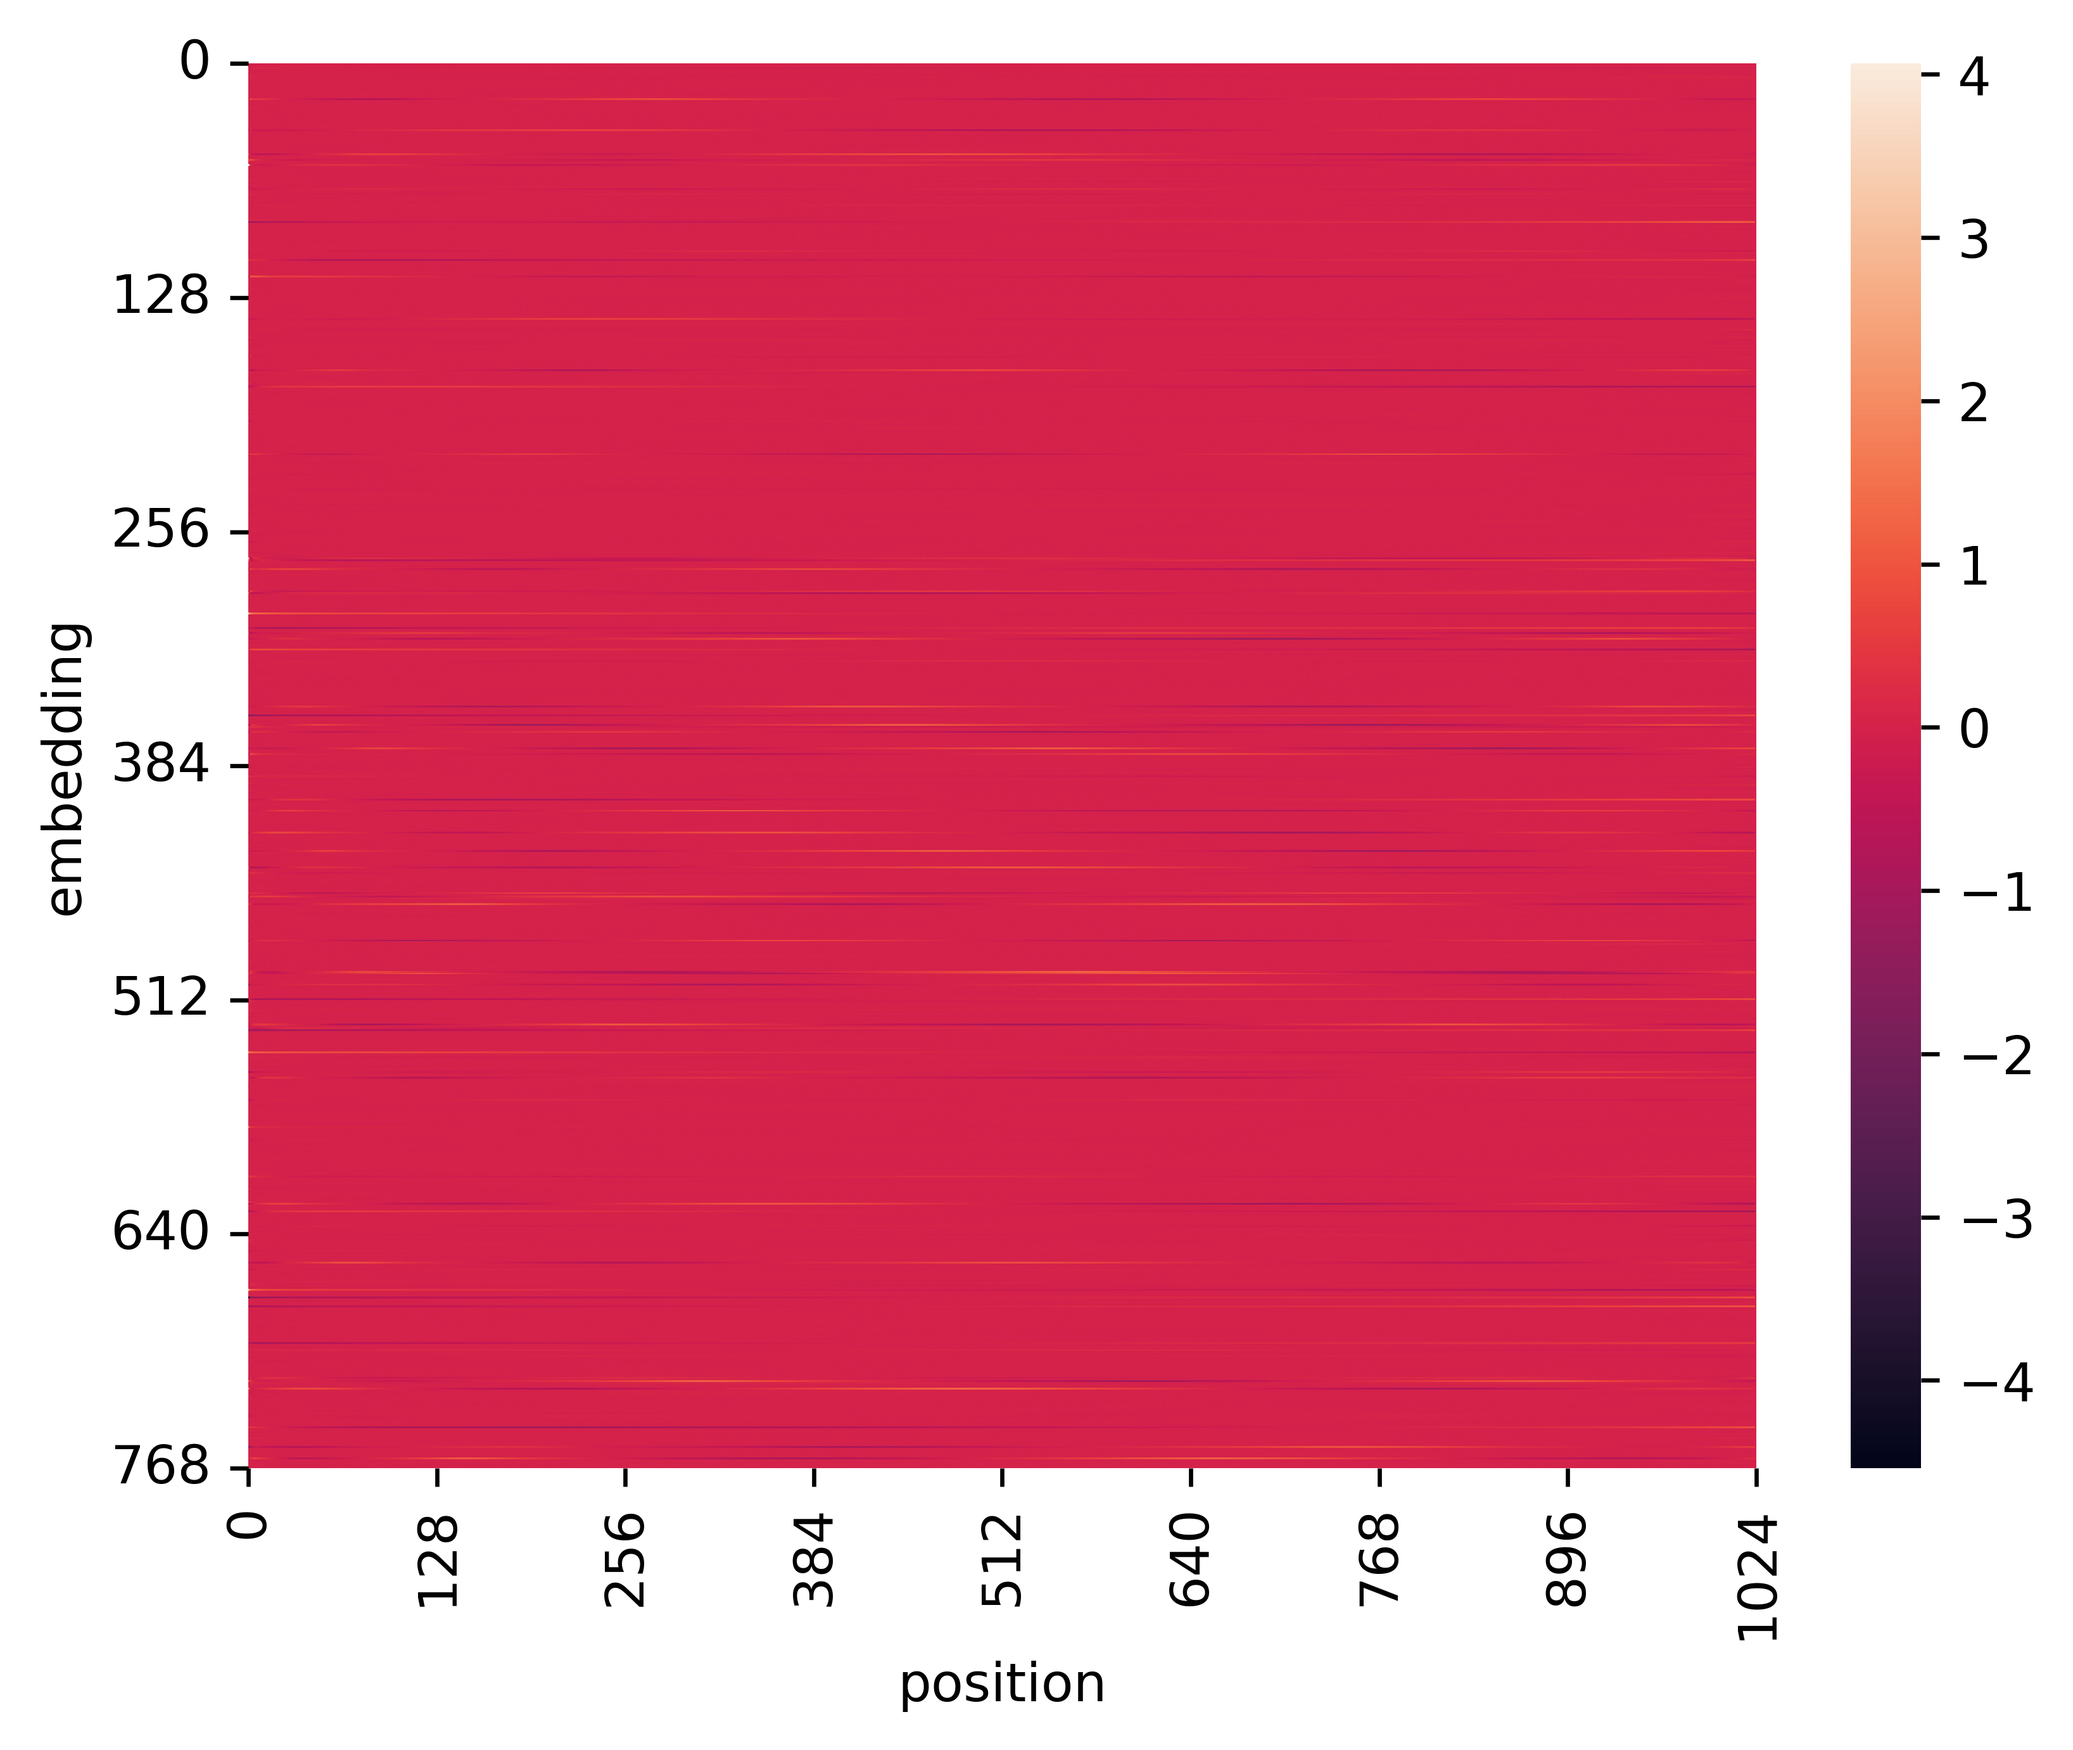
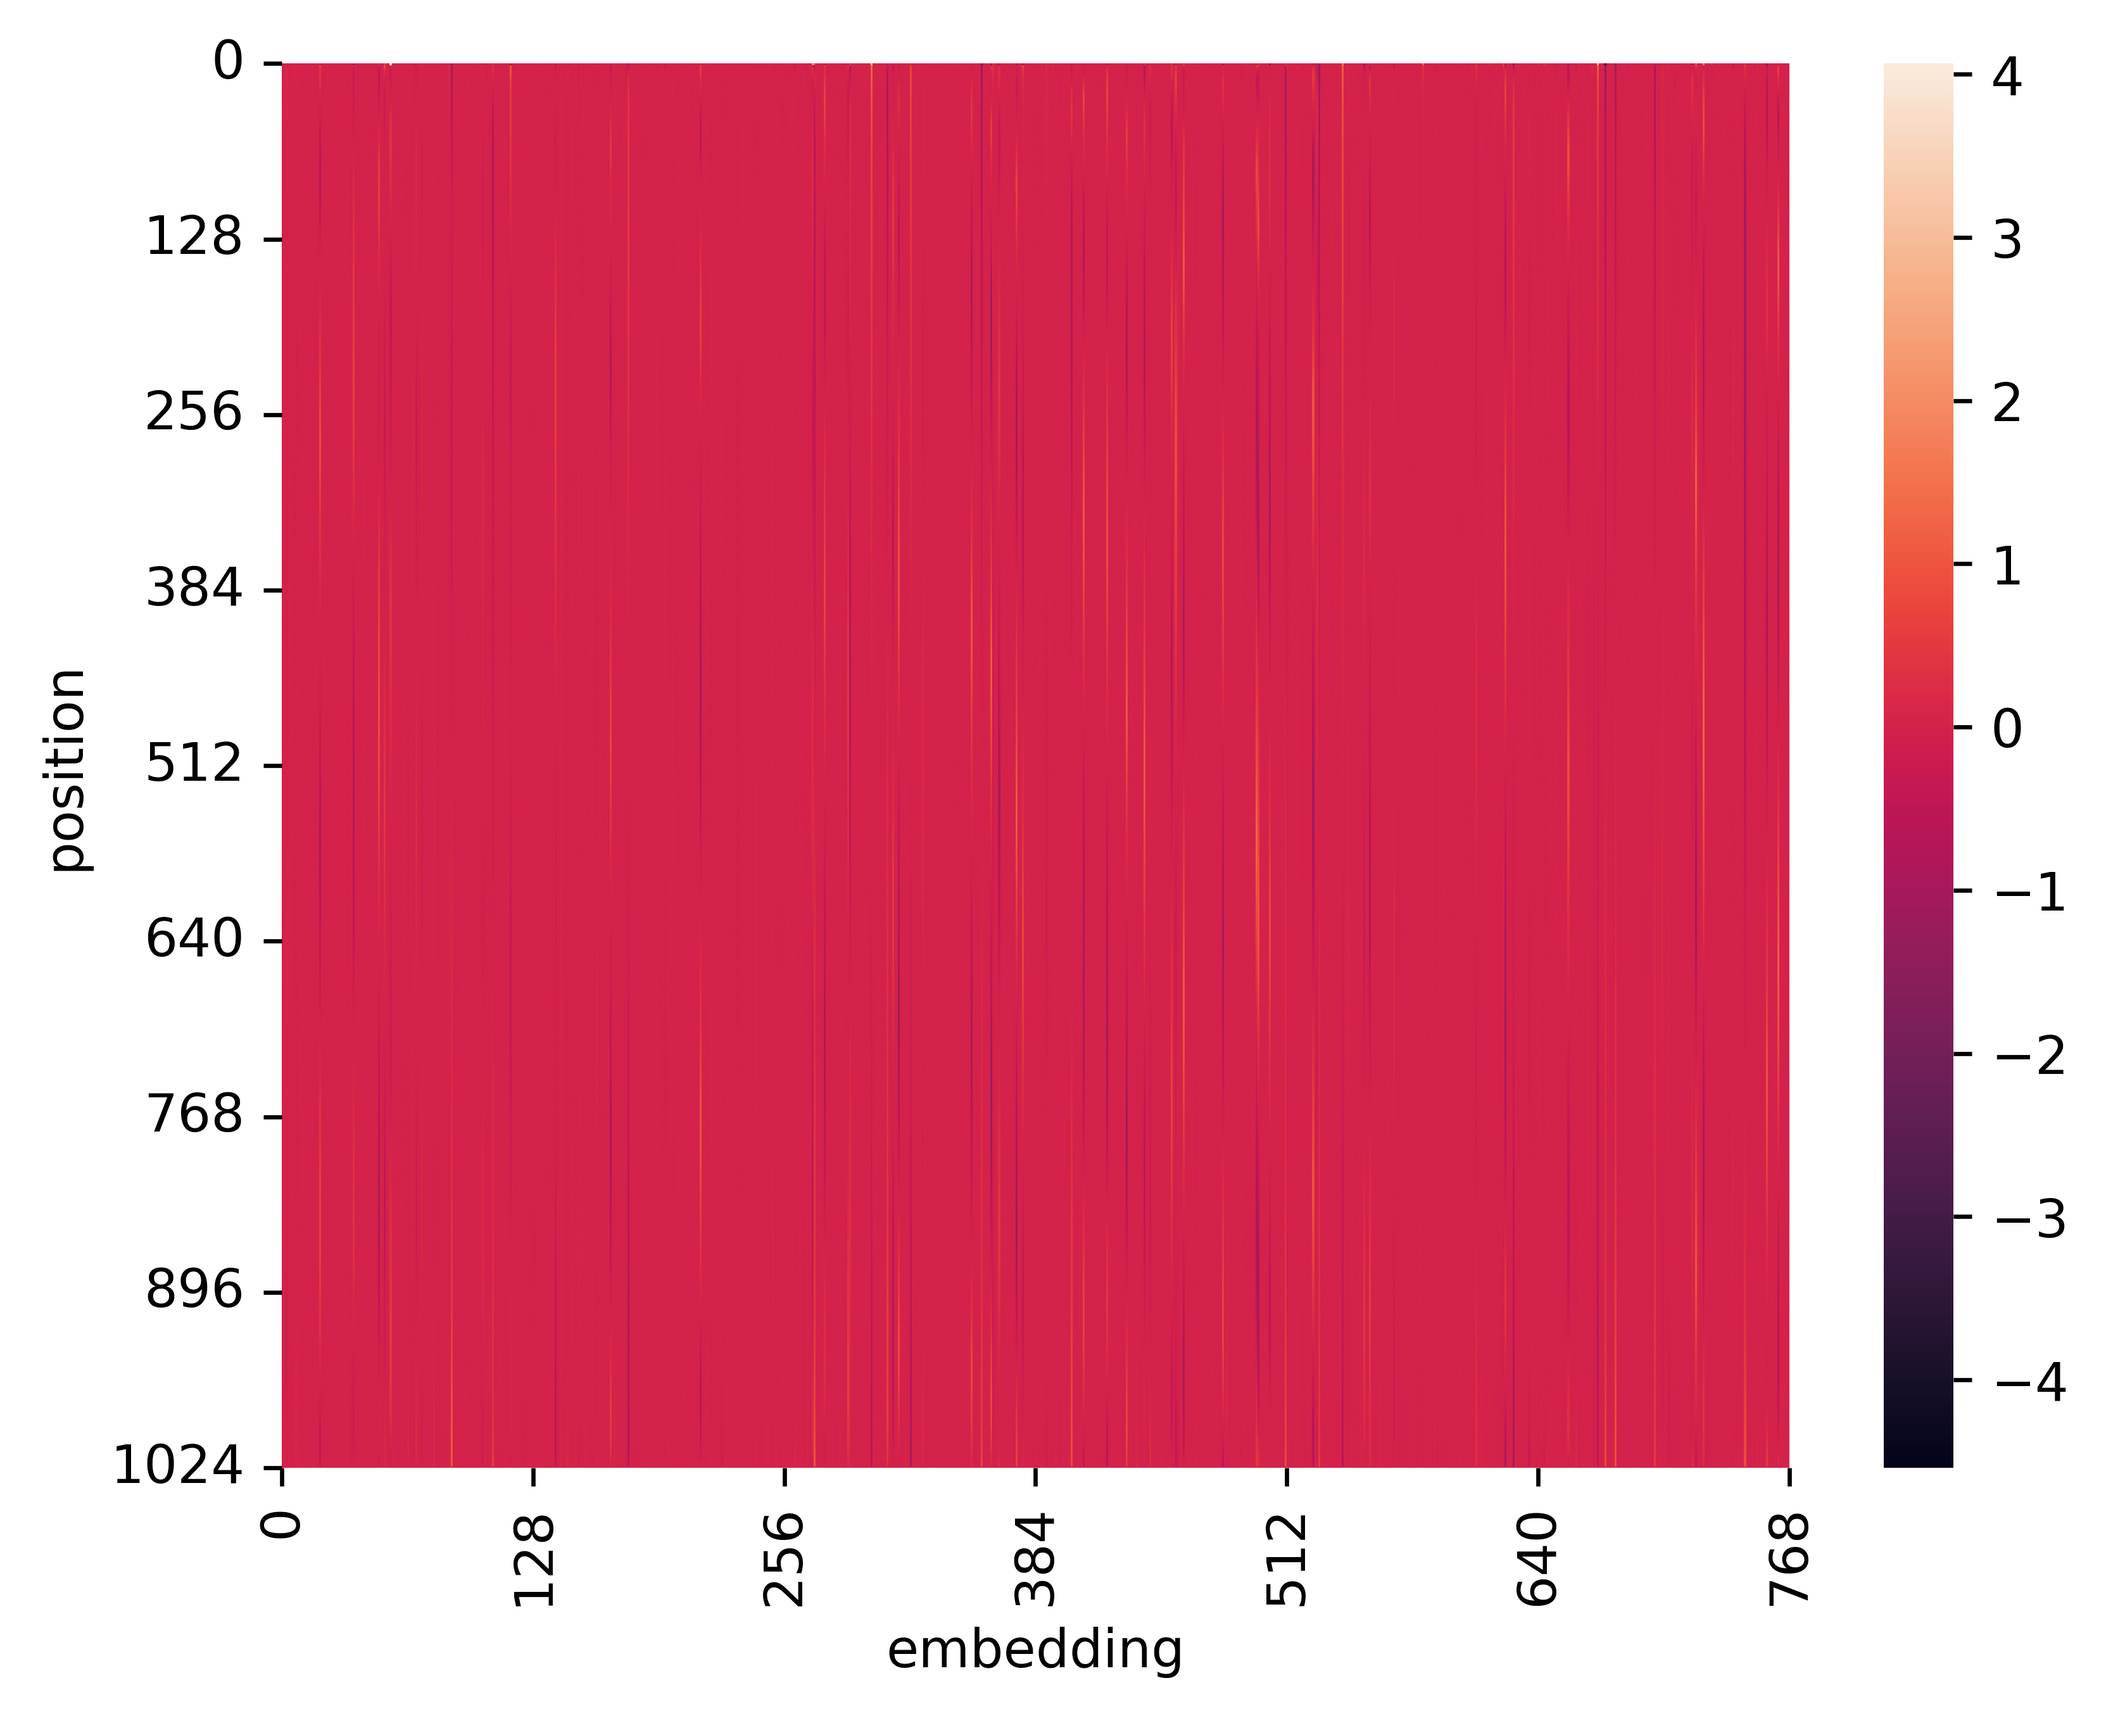
training

diff --git a/train.py b/train.py
@@ -1,0 +1,85 @@
+import datasets
+from transformers import (
+    AutoModelForCausalLM,
+    AutoTokenizer,
+    Trainer,
+    TrainingArguments,
+    DataCollatorForLanguageModeling,
+    EarlyStoppingCallback,
+)
+from matplotlib import pyplot
+
+from utils import get_logger
+from zero_pe import ZeroPE
+
+logger = get_logger(__name__)
+
+
+def main():
+    model = AutoModelForCausalLM.from_pretrained("gpt2").to("mps")
+    model.transformer.wpe = ZeroPE(768, device=model.device)
+    logger.info(model)
+
+    tokenizer = AutoTokenizer.from_pretrained("gpt2")
+    tokenizer.pad_token = tokenizer.eos_token
+
+    dataset = datasets.load_dataset("tatsu-lab/alpaca")["train"]
+
+    def tokenize(examples: dict, max_length: int = 512) -> dict:
+        return tokenizer(
+            examples["text"],
+            max_length=max_length,
+            padding="max_length",
+            truncation=True,
+            return_tensors="pt",
+        )
+
+    test_dataset = dataset.select(range(1024)).map(
+        tokenize, batched=True, batch_size=1024
+    )
+    valid_dataset = dataset.select(range(1024, 2048)).map(
+        tokenize, batched=True, batch_size=1024
+    )
+    train_dataset = dataset.select(range(2048, len(dataset))).map(
+        tokenize, batched=True, batch_size=1024
+    )
+
+    token_lengths = [len(data["input_ids"]) for data in train_dataset]
+    pyplot.hist(token_lengths)
+    pyplot.savefig("outputs/training/token_lengths.png")
+
+    logger.info(test_dataset)
+    logger.info(valid_dataset)
+    logger.info(train_dataset)
+
+    logger.info(test_dataset[0])
+
+    trainer = Trainer(
+        model,
+        TrainingArguments(
+            output_dir="outputs/training",
+            num_train_epochs=10,
+            do_train=True,
+            do_eval=True,
+            eval_strategy="steps",
+            eval_steps=16,
+            logging_strategy="steps",
+            logging_steps=16,
+            per_device_train_batch_size=4,
+            per_device_eval_batch_size=8,
+            load_best_model_at_end=True,
+            save_steps=64,
+        ),
+        data_collator=DataCollatorForLanguageModeling(
+            tokenizer,
+            mlm=False,
+        ),
+        train_dataset=train_dataset,
+        eval_dataset=valid_dataset,
+        callbacks=[EarlyStoppingCallback(3)],
+    )
+    trainer.train()
+
+
+if __name__ == "__main__":
+    main()

diff --git a/causal_test.py b/causal_test.py
@@ -3,20 +3,9 @@ from transformers import AutoModelForCausalLM, AutoTokenizer
 
 from benchmark import qa_benchmark
 from utils import get_logger
+from zero_pe import ZeroPE
 
 logger = get_logger(__name__)
-
-
-class ZeroPE(torch.nn.Module):
-    def __init__(self, embed_dim: int) -> None:
-        super().__init__()
-
-        self.embed_dim = embed_dim
-
-    def forward(self, position_ids: torch.Tensor) -> torch.Tensor:
-        return torch.zeros(
-            (position_ids.shape[0], position_ids.shape[1], self.embed_dim)
-        )
 
 
 def change_mask(mask: torch.Tensor) -> torch.Tensor:
@@ -37,7 +26,7 @@ def main() -> None:
     logger.info(model1)
     logger.info(model2)
 
-    qa_benchmark(model=model1, tokenizer=tokenizer, change_mask=change_mask)
+    qa_benchmark(model=model1, tokenizer=tokenizer)
 
 
 if __name__ == "__main__":

diff --git a/visualize_pe.py b/visualize_pe.py
@@ -21,16 +21,16 @@ def main() -> None:
     logger.info(position_embeddings.shape)
 
     pyplot.figure()
-    seaborn.heatmap(position_embeddings[0].transpose(0, 1))
+    seaborn.heatmap(position_embeddings[0])
 
-    pyplot.xlabel("position")
-    pyplot.ylabel("embedding")
+    pyplot.ylabel("position")
+    pyplot.xlabel("embedding")
 
-    pyplot.xticks(
+    pyplot.yticks(
         ticks=[0, 128, 256, 384, 512, 640, 768, 896, 1024],
         labels=[0, 128, 256, 384, 512, 640, 768, 896, 1024],
     )
-    pyplot.yticks(
+    pyplot.xticks(
         ticks=[0, 128, 256, 384, 512, 640, 768],
         labels=[0, 128, 256, 384, 512, 640, 768],
     )

diff --git a/visualize_te.py b/visualize_te.py
@@ -21,10 +21,10 @@ def main() -> None:
     logger.info(token_embeddings.shape)
 
     pyplot.figure()
-    seaborn.heatmap(token_embeddings[0].transpose(0, 1))
+    seaborn.heatmap(token_embeddings[0])
 
-    pyplot.xlabel("token")
-    pyplot.ylabel("embedding")
+    pyplot.ylabel("token")
+    pyplot.xlabel("embedding")
 
     """
     pyplot.xticks(
@@ -32,7 +32,7 @@ def main() -> None:
         labels=[0, 128, 256, 384, 512, 640, 768, 896, 1024],
     )
     """
-    pyplot.yticks(
+    pyplot.xticks(
         ticks=[0, 128, 256, 384, 512, 640, 768],
         labels=[0, 128, 256, 384, 512, 640, 768],
     )

diff --git a/zero_pe.py b/zero_pe.py
@@ -1,0 +1,14 @@
+import torch
+
+
+class ZeroPE(torch.nn.Module):
+    def __init__(self, embed_dim: int, device: str = "cpu") -> None:
+        super().__init__()
+
+        self.embed_dim = embed_dim
+        self.device = device
+
+    def forward(self, position_ids: torch.Tensor) -> torch.Tensor:
+        return torch.zeros(
+            (position_ids.shape[0], position_ids.shape[1], self.embed_dim)
+        ).to(self.device)
